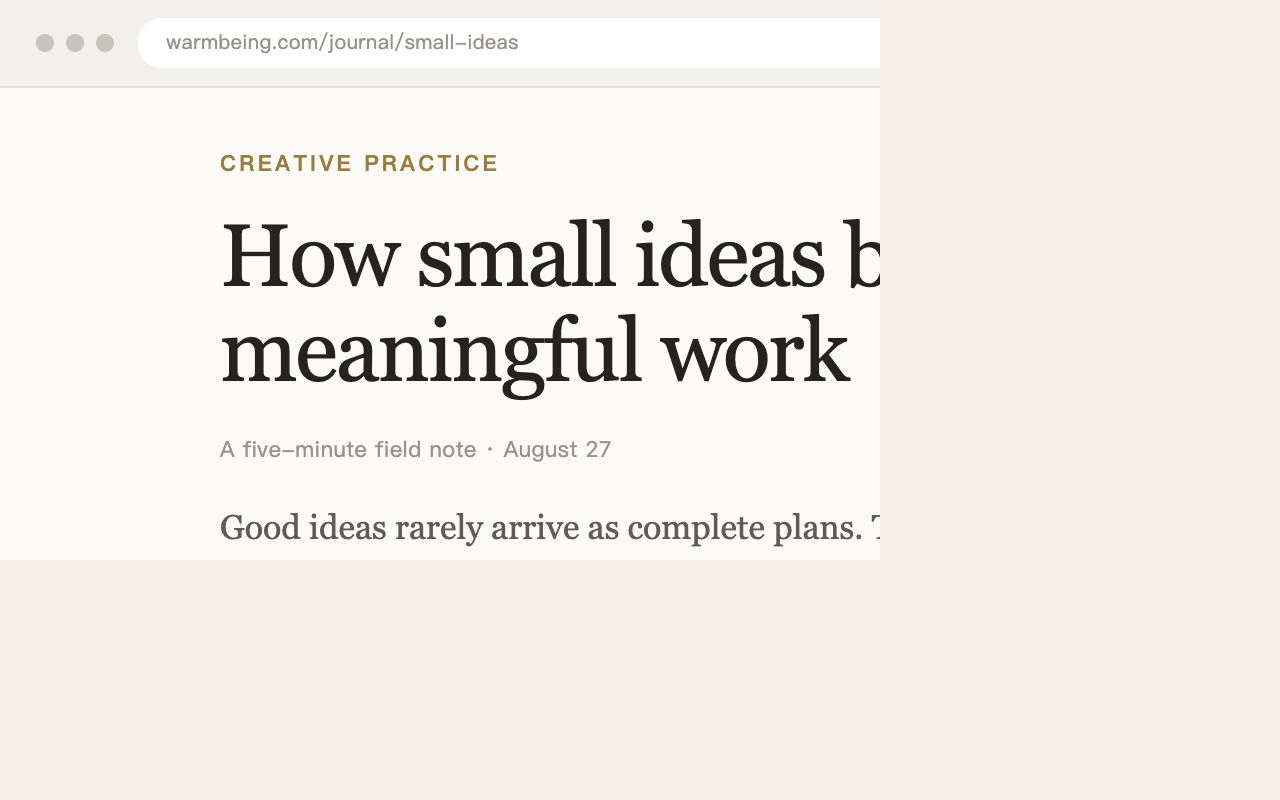
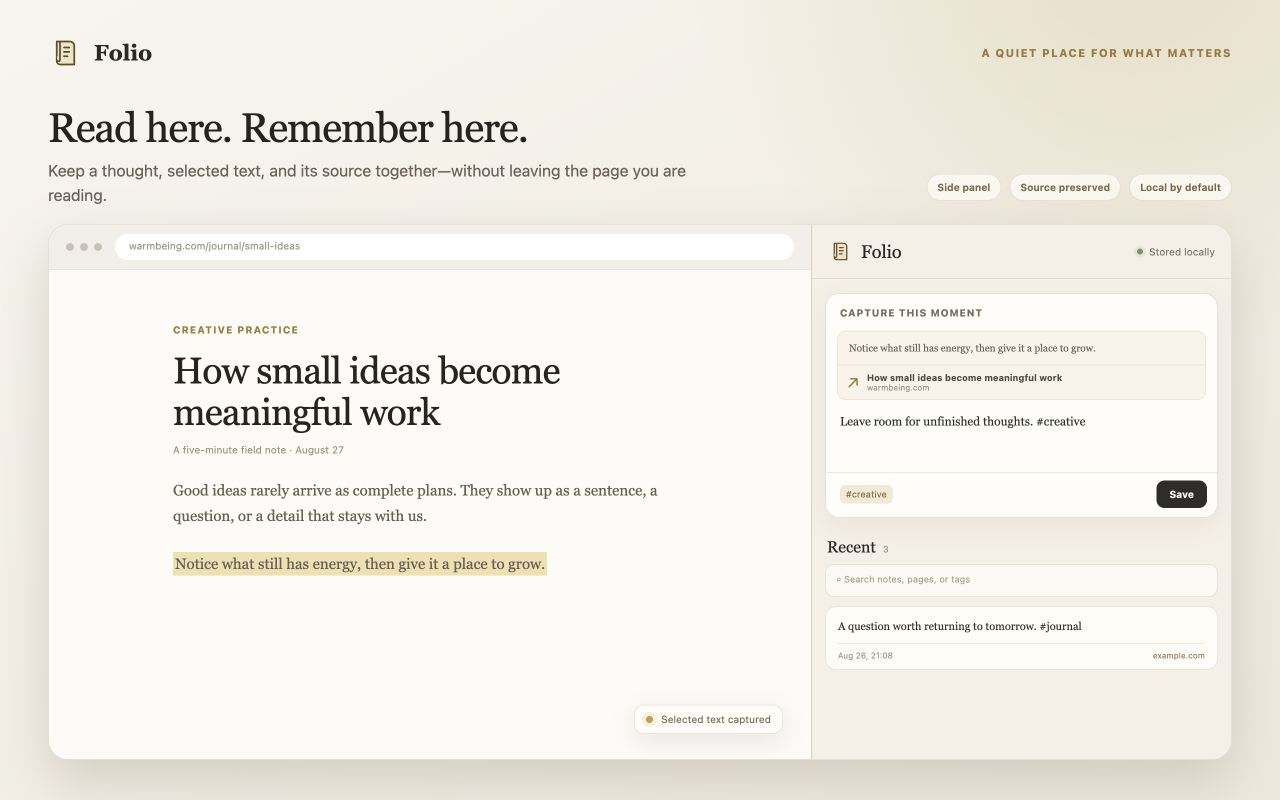
Polish Chrome Web Store localization

diff --git a/chrome-store/preview.html b/chrome-store/preview.html
@@ -4,87 +4,151 @@
     <meta charset="UTF-8" />
     <meta name="viewport" content="width=device-width, initial-scale=1.0" />
     <title>Folio store screenshot</title>
-    <link rel="stylesheet" href="../entrypoints/sidepanel/style.css" />
     <style>
-      html, body { width: 1280px; height: 800px; overflow: hidden; }
-      body { background: #ded8cc; }
-      .store-shot { display: grid; grid-template-columns: minmax(0, 1fr) 410px; width: 1280px; height: 800px; }
-      .browser-page { position: relative; overflow: hidden; padding: 70px 92px; background: #fbfaf7; }
-      .browser-chrome { position: absolute; inset: 0 0 auto; display: flex; align-items: center; gap: 12px; height: 44px; padding: 0 18px; border-bottom: 1px solid #e4e0d8; background: #f2f0eb; }
-      .browser-dots { display: flex; gap: 6px; }
-      .browser-dots i { width: 9px; height: 9px; border-radius: 50%; background: #c9c4ba; }
-      .address { flex: 1; height: 25px; border-radius: 12px; padding: 5px 14px; background: #fff; color: #999286; font: 10px ui-sans-serif, sans-serif; }
-      .article { max-width: 650px; margin: 0 auto; }
-      .article .kicker { color: #a17b31; font: 650 11px ui-sans-serif, sans-serif; letter-spacing: .11em; text-transform: uppercase; }
-      .article h1 { max-width: 570px; margin: 15px 0 18px; color: #27231d; font: 500 44px/1.08 Georgia, serif; letter-spacing: -.025em; }
-      .article .byline { color: #9a9387; font: 11px ui-sans-serif, sans-serif; }
-      .article p { color: #625c52; font: 17px/1.72 Georgia, serif; }
+      :root {
+        color: #2d2922;
+        background: #eee8dc;
+        font-family: Inter, ui-sans-serif, -apple-system, BlinkMacSystemFont, "Segoe UI", "PingFang SC", "Microsoft YaHei", sans-serif;
+        font-synthesis: none;
+      }
+      * { box-sizing: border-box; }
+      html, body { width: 1280px; height: 800px; margin: 0; overflow: hidden; }
+      body {
+        background:
+          radial-gradient(circle at 88% -10%, rgba(190, 155, 82, .22), transparent 31%),
+          linear-gradient(150deg, #f8f5ee, #eee8dc);
+      }
+      button, input, textarea { font: inherit; }
+      .canvas { display: grid; grid-template-rows: 42px 118px 1fr; gap: 16px; width: 100%; height: 100%; padding: 32px 48px 40px; }
+      .masthead { display: flex; align-items: center; justify-content: space-between; }
+      .brand { display: flex; align-items: center; gap: 11px; font: 600 22px/1 Georgia, "Noto Serif", serif; }
+      .mark { width: 35px; height: 35px; fill: #efe3c9; stroke: #5f4c25; stroke-width: 1.55; stroke-linecap: round; stroke-linejoin: round; }
+      .eyebrow { color: #9a7937; font-size: 11px; font-weight: 750; letter-spacing: .13em; text-transform: uppercase; }
+      .intro { display: flex; align-items: end; justify-content: space-between; gap: 44px; }
+      .intro-copy { min-width: 0; }
+      .intro h1 { margin: 0 0 8px; color: #27231d; font: 500 41px/1.08 Georgia, "Noto Serif", "Songti SC", serif; letter-spacing: -.025em; }
+      .intro p { max-width: 690px; margin: 0; color: #6a6358; font-size: 16px; line-height: 1.55; }
+      .feature-list { display: flex; flex: none; gap: 8px; margin-bottom: 7px; }
+      .feature-list span { border: 1px solid rgba(112, 87, 43, .14); border-radius: 999px; padding: 7px 10px; background: rgba(255, 253, 248, .72); color: #7a6846; font-size: 10px; font-weight: 650; white-space: nowrap; }
+
+      .product-window { display: grid; grid-template-columns: minmax(0, 1fr) 420px; min-height: 0; overflow: hidden; border: 1px solid rgba(74, 63, 43, .16); border-radius: 20px; background: #fffdf8; box-shadow: 0 22px 55px rgba(61, 49, 28, .17); }
+      .reading-pane { position: relative; min-width: 0; overflow: hidden; background: #fcfbf8; }
+      .browser-bar { display: flex; align-items: center; gap: 13px; height: 45px; padding: 0 17px; border-bottom: 1px solid #e9e4db; background: #f2efe9; }
+      .dots { display: flex; gap: 6px; }
+      .dots i { width: 8px; height: 8px; border-radius: 50%; background: #c9c3b8; }
+      .address { flex: 1; height: 26px; border-radius: 13px; padding: 6px 14px; background: #fff; color: #9b9488; font-size: 10px; }
+      .article { max-width: 610px; margin: 0 auto; padding: 48px 48px 24px; }
+      .article .kicker { color: #a17b31; font-size: 10px; font-weight: 750; letter-spacing: .11em; text-transform: uppercase; }
+      .article h2 { max-width: 520px; margin: 13px 0 11px; color: #28241e; font: 500 37px/1.12 Georgia, "Noto Serif", "Songti SC", serif; letter-spacing: -.02em; }
+      .article .byline { color: #9d9588; font-size: 10px; }
+      .article p { margin: 22px 0 0; color: #665f54; font: 15px/1.72 Georgia, "Noto Serif", "Songti SC", serif; }
       .article mark { padding: 3px 2px; background: #f0dfad; color: inherit; }
-      .sidepanel-frame { border-left: 1px solid #ccc5b8; box-shadow: -12px 0 32px rgba(55, 49, 39, .11); background: #f4f0e7; }
-      .sidepanel-frame .app-shell { height: 800px; overflow: hidden; }
-      .sidepanel-frame .composer { margin-top: 14px; }
-      .sidepanel-frame .composer textarea { min-height: 82px; resize: none; }
-      .sidepanel-frame .library { padding-bottom: 12px; }
-      .sidepanel-frame .note-actions { opacity: 1; }
-      .sidepanel-frame .note-card { padding-block: 10px 8px; }
-      .sidepanel-frame .note-copy p { font-size: 12px; }
+      .selection-tip { position: absolute; right: 28px; bottom: 25px; display: flex; align-items: center; gap: 8px; border: 1px solid rgba(112, 87, 43, .14); border-radius: 10px; padding: 8px 11px; background: rgba(255, 253, 248, .94); color: #75694f; box-shadow: 0 8px 24px rgba(61, 49, 28, .1); font-size: 10px; }
+      .selection-tip i { width: 7px; height: 7px; border-radius: 50%; background: #c89c43; box-shadow: 0 0 0 4px rgba(200, 156, 67, .13); }
+
+      .sidepanel { min-width: 0; overflow: hidden; border-left: 1px solid #d7d0c2; background: #f4f0e7; box-shadow: -12px 0 32px rgba(55, 49, 39, .1); }
+      .topbar { display: flex; align-items: center; justify-content: space-between; height: 54px; padding: 0 16px; border-bottom: 1px solid rgba(56, 51, 39, .10); background: rgba(244, 240, 231, .96); }
+      .panel-brand { display: flex; align-items: center; gap: 8px; font: 500 18px Georgia, "Noto Serif", serif; }
+      .panel-brand .mark { width: 25px; height: 25px; }
+      .status { display: flex; align-items: center; gap: 6px; color: #7b7568; font-size: 10px; }
+      .status i { width: 6px; height: 6px; border-radius: 50%; background: #71966a; box-shadow: 0 0 0 3px rgba(113, 150, 106, .12); }
+      .composer { margin: 14px 13px 11px; overflow: hidden; border: 1px solid rgba(61, 53, 38, .13); border-radius: 14px; background: #fffdf8; box-shadow: 0 8px 24px rgba(54, 46, 32, .06); }
+      .composer-label { padding: 13px 14px 4px; color: #756e5f; font-size: 10px; font-weight: 750; letter-spacing: .08em; text-transform: uppercase; }
+      .context { margin: 8px 11px 0; overflow: hidden; border: 1px solid #ece5d7; border-radius: 9px; background: #f8f4eb; }
+      .context blockquote { margin: 0; padding: 9px 11px; border-bottom: 1px solid #ece5d7; color: #696254; font: 10px/1.5 Georgia, "Noto Serif", "Songti SC", serif; }
+      .source { display: grid; grid-template-columns: 15px minmax(0, 1fr); gap: 0 5px; align-items: center; padding: 7px 9px; color: #514b40; }
+      .source b { overflow: hidden; font-size: 9px; text-overflow: ellipsis; white-space: nowrap; }
+      .source small { grid-column: 2; color: #999184; font-size: 8px; }
+      .source .arrow { grid-row: 1 / span 2; color: #9a7a39; }
+      .note-input { min-height: 72px; padding: 12px 14px; color: #302d27; font: 12px/1.55 Georgia, "Noto Serif", "Songti SC", serif; }
+      .composer-footer { display: flex; align-items: center; justify-content: space-between; min-height: 45px; padding: 7px 10px 9px 14px; border-top: 1px solid #f0eadf; }
+      .tag { border-radius: 5px; padding: 4px 6px; background: #f3ead6; color: #8a6b2d; font-size: 9px; }
+      .save { border: 0; border-radius: 8px; padding: 8px 13px; background: #2f2d28; color: #fffdf8; font-size: 10px; font-weight: 700; }
+      .library { padding: 5px 13px 18px; }
+      .library-head { display: flex; align-items: baseline; gap: 7px; padding: 4px 2px 8px; }
+      .library-head h3 { margin: 0; font: 500 16px Georgia, "Noto Serif", serif; }
+      .library-head span { color: #9b9384; font-size: 9px; }
+      .search { height: 33px; margin-bottom: 9px; border: 1px solid rgba(59, 52, 39, .10); border-radius: 9px; padding: 9px 10px; background: rgba(255, 253, 248, .66); color: #aaa294; font-size: 9px; }
+      .note-card { border: 1px solid rgba(61, 53, 38, .11); border-radius: 11px; padding: 11px 12px 9px; background: rgba(255, 253, 248, .9); }
+      .note-card p { margin: 0; color: #302d27; font: 11px/1.55 Georgia, "Noto Serif", "Songti SC", serif; }
+      .note-meta { display: flex; justify-content: space-between; margin-top: 8px; padding-top: 7px; border-top: 1px solid #f0eadf; color: #9c9487; font-size: 8px; }
+      .note-meta a { color: #91805d; }
     </style>
   </head>
   <body>
-    <div class="store-shot">
-      <section class="browser-page">
-        <div class="browser-chrome">
-          <span class="browser-dots"><i></i><i></i><i></i></span>
-          <div class="address">warmbeing.com/journal/small-ideas</div>
+    <main class="canvas">
+      <header class="masthead">
+        <div class="brand">
+          <svg aria-hidden="true" class="mark" viewBox="0 0 32 32"><path d="M8 5.5h12a4 4 0 0 1 4 4v17H11a3 3 0 0 1-3-3v-18Z"></path><path d="M11 5.5v16.8c0 1.7-3 1.7-3 0M14.5 11h5M14.5 15h5M14.5 19h3.5"></path></svg>
+          <span>Folio</span>
         </div>
-        <article class="article">
-          <span class="kicker" data-en="Creative practice" data-zh="创作练习">Creative practice</span>
-          <h1 data-en="How small ideas become meaningful work" data-zh="微小的想法，如何长成有意义的作品">How small ideas become meaningful work</h1>
-          <div class="byline" data-en="A five-minute field note · August 27" data-zh="五分钟阅读札记 · 8 月 27 日">A five-minute field note · August 27</div>
-          <p data-en="Good ideas rarely arrive as complete plans. They show up as a sentence, a question, or a detail that stays with us." data-zh="好想法很少以完整计划的样子出现。它可能只是一句话、一个问题，或某个一直留在心里的细节。">Good ideas rarely arrive as complete plans. They show up as a sentence, a question, or a detail that stays with us.</p>
-          <p><mark data-en="The useful habit is not collecting everything. It is noticing what has energy, then giving it a place to grow." data-zh="真正有用的习惯并不是收藏一切，而是留意那些仍有能量的片刻，再给它一个继续生长的地方。">The useful habit is not collecting everything. It is noticing what has energy, then giving it a place to grow.</mark></p>
-          <p data-en="A quiet capture tool protects that fragile first step. The note can stay small today and still become something larger tomorrow." data-zh="安静的记录工具保护了这脆弱的第一步。今天它可以只是一条小笔记，明天仍可能成为更大的东西。">A quiet capture tool protects that fragile first step. The note can stay small today and still become something larger tomorrow.</p>
-        </article>
+        <span class="eyebrow" data-en="A quiet place for what matters" data-zh="把值得留下的，安静地收好">A quiet place for what matters</span>
+      </header>
+
+      <section class="intro">
+        <div class="intro-copy">
+          <h1 data-en="Read here. Remember here." data-zh="读到哪里，记到哪里。">Read here. Remember here.</h1>
+          <p data-en="Keep a thought, selected text, and its source together—without leaving the page you are reading." data-zh="把一闪而过的想法，连同选中文本和来源链接一起留下，不必离开正在阅读的网页。">Keep a thought, selected text, and its source together—without leaving the page you are reading.</p>
+        </div>
+        <div class="feature-list">
+          <span data-en="Side panel" data-zh="侧边栏记录">Side panel</span>
+          <span data-en="Source preserved" data-zh="保留来源">Source preserved</span>
+          <span data-en="Local by default" data-zh="默认本地">Local by default</span>
+        </div>
       </section>
 
-      <aside class="sidepanel-frame">
-        <main class="app-shell">
+      <section class="product-window">
+        <div class="reading-pane">
+          <div class="browser-bar">
+            <span class="dots"><i></i><i></i><i></i></span>
+            <div class="address">warmbeing.com/journal/small-ideas</div>
+          </div>
+          <article class="article">
+            <span class="kicker" data-en="Creative practice" data-zh="创作练习">Creative practice</span>
+            <h2 data-en="How small ideas become meaningful work" data-zh="微小的想法，如何长成有意义的作品">How small ideas become meaningful work</h2>
+            <div class="byline" data-en="A five-minute field note · August 27" data-zh="五分钟阅读札记 · 8 月 27 日">A five-minute field note · August 27</div>
+            <p data-en="Good ideas rarely arrive as complete plans. They show up as a sentence, a question, or a detail that stays with us." data-zh="好想法很少以完整计划的样子出现。它可能只是一句话、一个问题，或某个一直留在心里的细节。">Good ideas rarely arrive as complete plans. They show up as a sentence, a question, or a detail that stays with us.</p>
+            <p><mark data-en="Notice what still has energy, then give it a place to grow." data-zh="留意那些仍有能量的片刻，再给它一个继续生长的地方。">Notice what still has energy, then give it a place to grow.</mark></p>
+          </article>
+          <div class="selection-tip"><i></i><span data-en="Selected text captured" data-zh="选中文字已带入 Folio">Selected text captured</span></div>
+        </div>
+
+        <aside class="sidepanel">
           <header class="topbar">
-            <div class="brand">
-              <svg aria-hidden="true" class="folio-mark" viewBox="0 0 32 32"><path d="M8 5.5h12a4 4 0 0 1 4 4v17H11a3 3 0 0 1-3-3v-18Z"></path><path d="M11 5.5v16.8c0 1.7-3 1.7-3 0M14.5 11h5M14.5 15h5M14.5 19h3.5"></path></svg>
+            <div class="panel-brand">
+              <svg aria-hidden="true" class="mark" viewBox="0 0 32 32"><path d="M8 5.5h12a4 4 0 0 1 4 4v17H11a3 3 0 0 1-3-3v-18Z"></path><path d="M11 5.5v16.8c0 1.7-3 1.7-3 0M14.5 11h5M14.5 15h5M14.5 19h3.5"></path></svg>
               <span>Folio</span>
             </div>
-            <div class="top-actions"><span class="local-status synced"><i></i> <span data-en="Synced" data-zh="已同步">Synced</span></span><button class="icon-button">•••</button></div>
+            <span class="status"><i></i><span data-en="Stored locally" data-zh="本地保存">Stored locally</span></span>
           </header>
 
           <section class="composer">
-            <div class="composer-heading"><span data-en="Capture this moment" data-zh="记下此刻">Capture this moment</span></div>
-            <div class="context-card">
-              <blockquote data-en="The useful habit is not collecting everything. It is noticing what has energy, then giving it a place to grow." data-zh="真正有用的习惯并不是收藏一切，而是留意那些仍有能量的片刻，再给它一个继续生长的地方。">The useful habit is not collecting everything. It is noticing what has energy, then giving it a place to grow.</blockquote>
-              <a><span class="source-dot">↗</span><span data-en="How small ideas become meaningful work" data-zh="微小的想法，如何长成有意义的作品">How small ideas become meaningful work</span><small>warmbeing.com</small></a>
+            <div class="composer-label" data-en="Capture this moment" data-zh="记下此刻">Capture this moment</div>
+            <div class="context">
+              <blockquote data-en="Notice what still has energy, then give it a place to grow." data-zh="留意那些仍有能量的片刻，再给它一个继续生长的地方。">Notice what still has energy, then give it a place to grow.</blockquote>
+              <div class="source"><span class="arrow">↗</span><b data-en="How small ideas become meaningful work" data-zh="微小的想法，如何长成有意义的作品">How small ideas become meaningful work</b><small>warmbeing.com</small></div>
             </div>
-            <textarea readonly data-en-placeholder="What is worth keeping from this moment?" data-zh-placeholder="此刻有什么值得留下？">This connects to the idea of leaving room for unfinished thoughts. #creative</textarea>
-            <div class="composer-footer"><div class="tag-preview"><span data-en="#creative" data-zh="#创作">#creative</span></div><button class="save-button"><span data-en="Save" data-zh="保存">Save</span><kbd>⌘↵</kbd></button></div>
+            <div class="note-input" data-en="Leave room for unfinished thoughts. #creative" data-zh="给尚未完成的想法留一点空间。#创作">Leave room for unfinished thoughts. #creative</div>
+            <div class="composer-footer"><span class="tag" data-en="#creative" data-zh="#创作">#creative</span><button class="save" data-en="Save" data-zh="保存">Save</button></div>
           </section>
 
           <section class="library">
-            <div class="library-heading"><h1 data-en="Recent" data-zh="最近">Recent</h1><span>3</span></div>
-            <label class="search-field"><span>⌕</span><input readonly data-en-placeholder="Search notes, pages, or tags" data-zh-placeholder="搜索笔记、网页或标签" /></label>
-            <div class="note-list">
-              <article class="note-card"><div class="note-copy"><p data-en="Leave room for unfinished thoughts. #creative" data-zh="给尚未完成的想法留一点空间。#创作">Leave room for unfinished thoughts. #creative</p></div><div class="note-tags"><span data-en="#creative" data-zh="#创作">#creative</span></div><footer><div class="note-meta"><time>10:42</time><a>warmbeing.com</a></div><div class="note-actions"><button data-en="Edit" data-zh="编辑">Edit</button><button class="danger" data-en="Delete" data-zh="删除">Delete</button></div></footer></article>
-              <article class="note-card"><div class="note-copy"><p data-en="A question worth returning to tomorrow. #journal" data-zh="一个值得明天继续想的问题。#札记">A question worth returning to tomorrow. #journal</p></div><footer><div class="note-meta"><time data-en="Aug 26, 21:08" data-zh="8月26日 21:08">Aug 26, 21:08</time><a>example.com</a></div><div class="note-actions"><button data-en="Edit" data-zh="编辑">Edit</button><button class="danger" data-en="Delete" data-zh="删除">Delete</button></div></footer></article>
-            </div>
+            <div class="library-head"><h3 data-en="Recent" data-zh="最近">Recent</h3><span>3</span></div>
+            <div class="search" data-en="⌕  Search notes, pages, or tags" data-zh="⌕  搜索笔记、网页或标签">⌕  Search notes, pages, or tags</div>
+            <article class="note-card">
+              <p data-en="A question worth returning to tomorrow. #journal" data-zh="一个值得明天继续想的问题。#札记">A question worth returning to tomorrow. #journal</p>
+              <footer class="note-meta"><time data-en="Aug 26, 21:08" data-zh="8 月 26 日 21:08">Aug 26, 21:08</time><a>example.com</a></footer>
+            </article>
           </section>
-        </main>
-      </aside>
-    </div>
+        </aside>
+      </section>
+    </main>
     <script>
       const language = new URLSearchParams(location.search).get("lang") === "zh" ? "zh" : "en";
       document.documentElement.lang = language === "zh" ? "zh-CN" : "en";
-      document.querySelectorAll("[data-en]").forEach((element) => { element.textContent = element.dataset[language]; });
-      document.querySelectorAll("[data-en-placeholder]").forEach((element) => { element.placeholder = element.dataset[`${language}Placeholder`]; });
-      const textarea = document.querySelector("textarea");
-      if (language === "zh") textarea.value = "这让我想到：要为尚未完成的念头留一点空间。#创作";
+      document.querySelectorAll("[data-en]").forEach((element) => {
+        element.textContent = element.dataset[language];
+      });
     </script>
   </body>
 </html>

diff --git a/wxt.config.ts b/wxt.config.ts
@@ -12,7 +12,7 @@ export default defineConfig({
     name: "__MSG_extensionName__",
     short_name: "__MSG_extensionName__",
     description: "__MSG_extensionDescription__",
-    version: "0.4.0",
+    version: "0.4.1",
     host_permissions: ["https://folio.warmbeing.com/*"],
     permissions:
       browser === "firefox"

diff --git a/chrome-store/listing.md b/chrome-store/listing.md
@@ -2,9 +2,9 @@
 
 ## Package
 
-- Upload: `output/folio-0.4.0-chrome.zip`
+- Upload: `output/folio-0.4.1-chrome.zip`
 - Manifest version: 3
-- Version: 0.4.0
+- Version: 0.4.1
 - Default locale: English
 - Additional locale: Simplified Chinese (`zh_CN`)
 
@@ -16,7 +16,7 @@ Folio
 
 ### Summary
 
-Capture thoughts, selected text, and page links in a calm side panel, with local-first storage and optional cloud sync.
+Capture thoughts, selections, and pages without leaving your flow.
 
 ### Description
 
@@ -45,26 +45,27 @@ Folio
 
 ### 简短说明
 
-在 Chrome 侧边栏随手记录想法、选中文本和网页链接；默认本地保存，可选择连接云端同步。
+边读边记，不打断思路。把想法、选中文本和来源链接收进侧边栏，默认保存在本地。
 
 ### 详细说明
 
-Folio 是一个不打断阅读、随手留下想法的安静角落。
+读到一句想留下的话，或突然冒出一个念头时，不必再切到另一个应用。
 
-点击 Chrome 工具栏中的 Folio，或按 Command+Shift+Y（Windows 和 Linux 为 Ctrl+Shift+Y），即可打开侧边栏。Folio 会读取当前页面的标题、链接，以及你主动选中的文本，让此刻的灵感几秒钟内变成一条有来源的笔记。
+Folio 常驻在 Chrome 侧边栏。点击工具栏图标，或按 Command+Shift+Y（Windows 和 Linux 为 Ctrl+Shift+Y），它会带入当前网页的标题、来源链接，以及你主动选中的文本。补上一句自己的想法，一条有上下文的笔记就完成了。
 
-你可以：
+用 Folio，你可以：
 
-- 保存笔记、选中文本和来源链接
-- 使用行内 #标签 整理想法
-- 在侧边栏搜索、编辑和删除笔记
-- 将全部笔记导出为 Markdown 或 JSON
-- 默认只把笔记保存在当前设备
-- 按需连接 Folio Cloud，通过加密连接跨设备同步
+- 一边阅读，一边记录，不离开当前网页
+- 把选中文本、页面标题和来源链接一起保存
+- 用行内 #标签 整理灵感
+- 搜索、编辑和删除过去的笔记
+- 将全部内容导出为 Markdown 或 JSON
 
-Folio 不会读取完整网页，也不会在后台监控浏览行为。只有当你主动打开插件时，它才会访问当前标签页。云同步完全可选，只有在你明确连接账号后才会开始。
+笔记默认只保存在你的设备上。需要跨设备使用时，可以选择连接 Folio Cloud；云端同步不会自动开启。
 
-插件会根据浏览器语言自动显示英文或简体中文界面。
+Folio 不会读取完整网页，也不会在后台追踪浏览记录。它只会在你主动打开侧边栏时访问当前标签页，并且只读取你主动选中的文字。
+
+界面会自动跟随 Chrome，支持英文和简体中文。
 
 ## Privacy form
 
